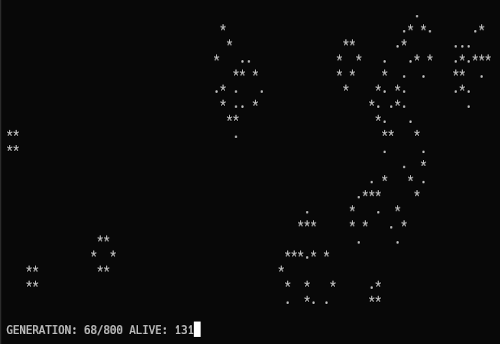
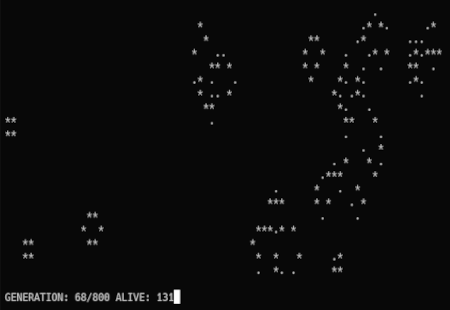
mod

diff --git a/README.md b/README.md
@@ -5,7 +5,6 @@ Conway's Game of Life.
 
 * [Conway's Game of Life](https://en.wikipedia.org/wiki/Conway%27s_Game_of_Life)
 * [ライフゲーム](https://ja.wikipedia.org/wiki/%E3%83%A9%E3%82%A4%E3%83%95%E3%82%B2%E3%83%BC%E3%83%A0)
-* [cl-charms](https://github.com/HiTECNOLOGYs/cl-charms)
 
 Installation
 ------------
